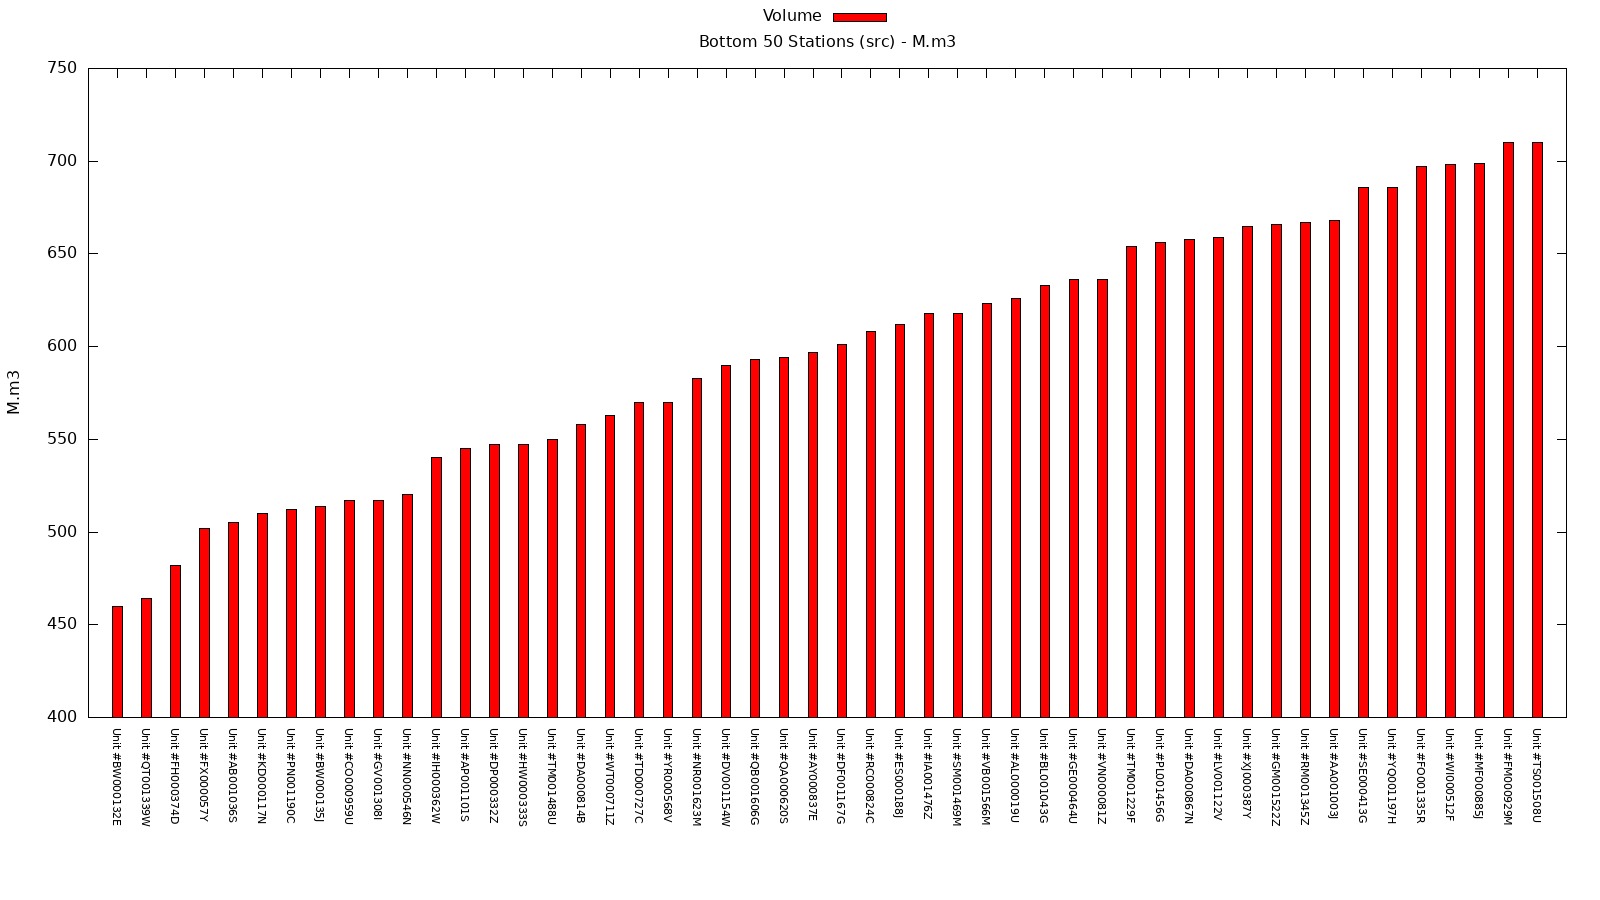
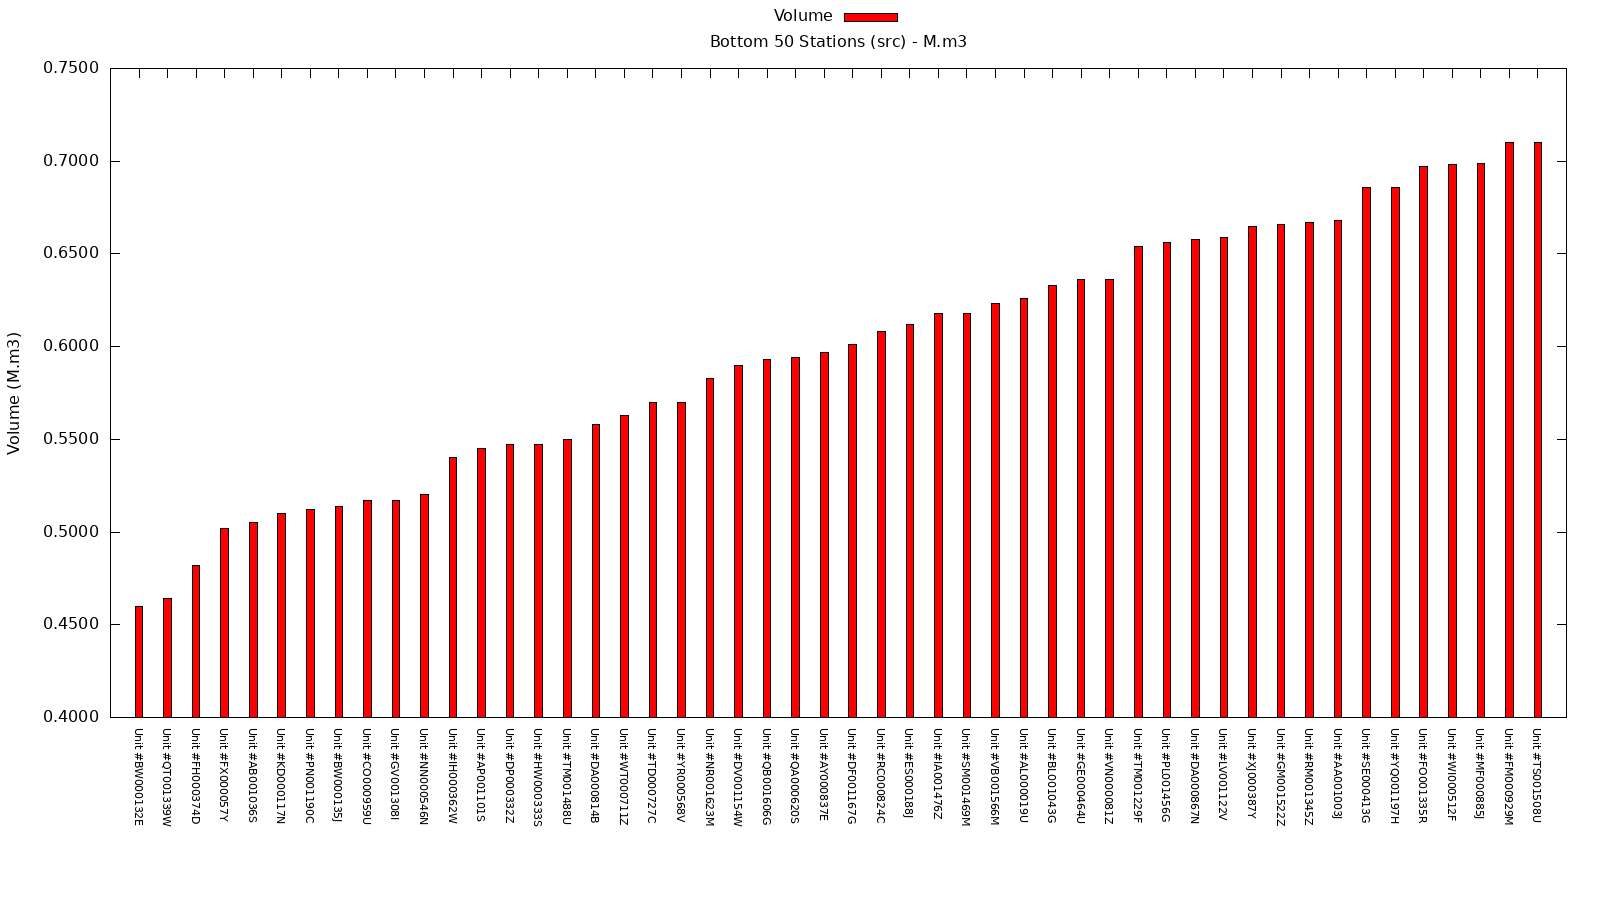
Correction erreur histogramme

diff --git a/src/avl.c b/src/avl.c
@@ -178,16 +178,16 @@ void free_tree(Station* node) {
 void write_csv(Station* node, FILE* output, char* mode) {
     if (!node) return;
     write_csv(node->left, output, mode);
-    long val = 0;
+    double val = 0;
     if (strcmp(mode, "max") == 0) {
-        val = node->capacity;
+        val = node->capacity/1000.0;
     } else if (strcmp(mode, "src") == 0) {
-        val = node->consumption;
+        val = node->consumption/1000.0;
     } else if (strcmp(mode, "real") == 0) {
-        val = node->real_qty;
+        val = node->real_qty/1000.0;
     }
     if (val > 0) {
-        fprintf(output, "%s;%ld\n", node->name, val);
+        fprintf(output, "%s;%.6f\n", node->name, val);
     }
     write_csv(node->right, output, mode);
 }
